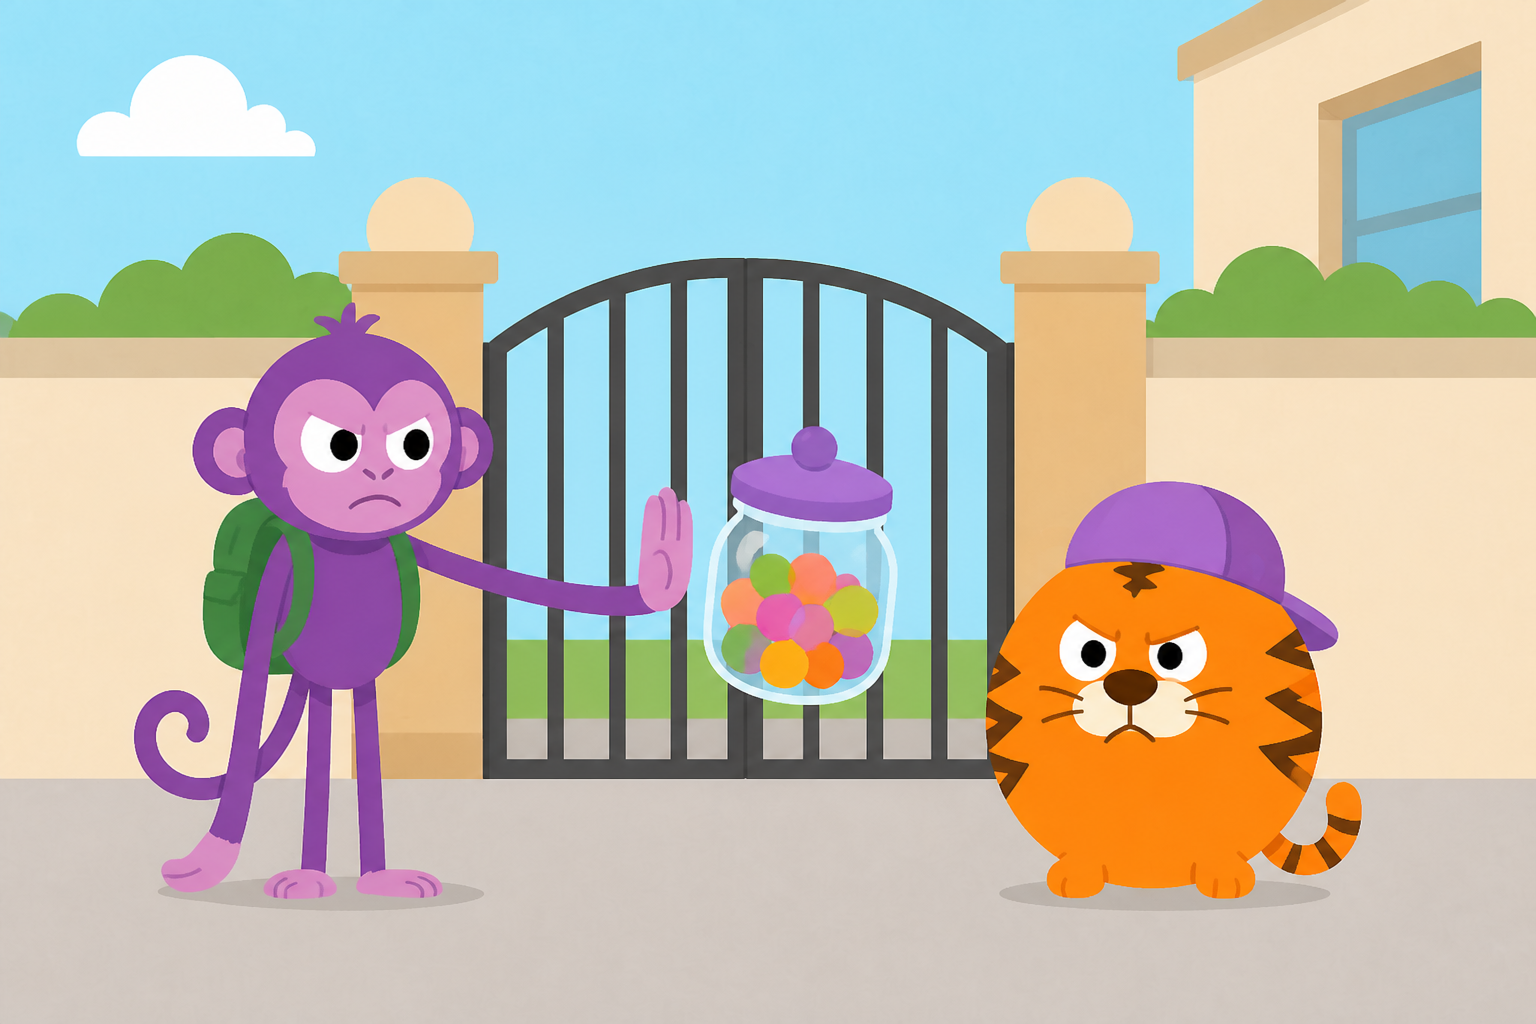
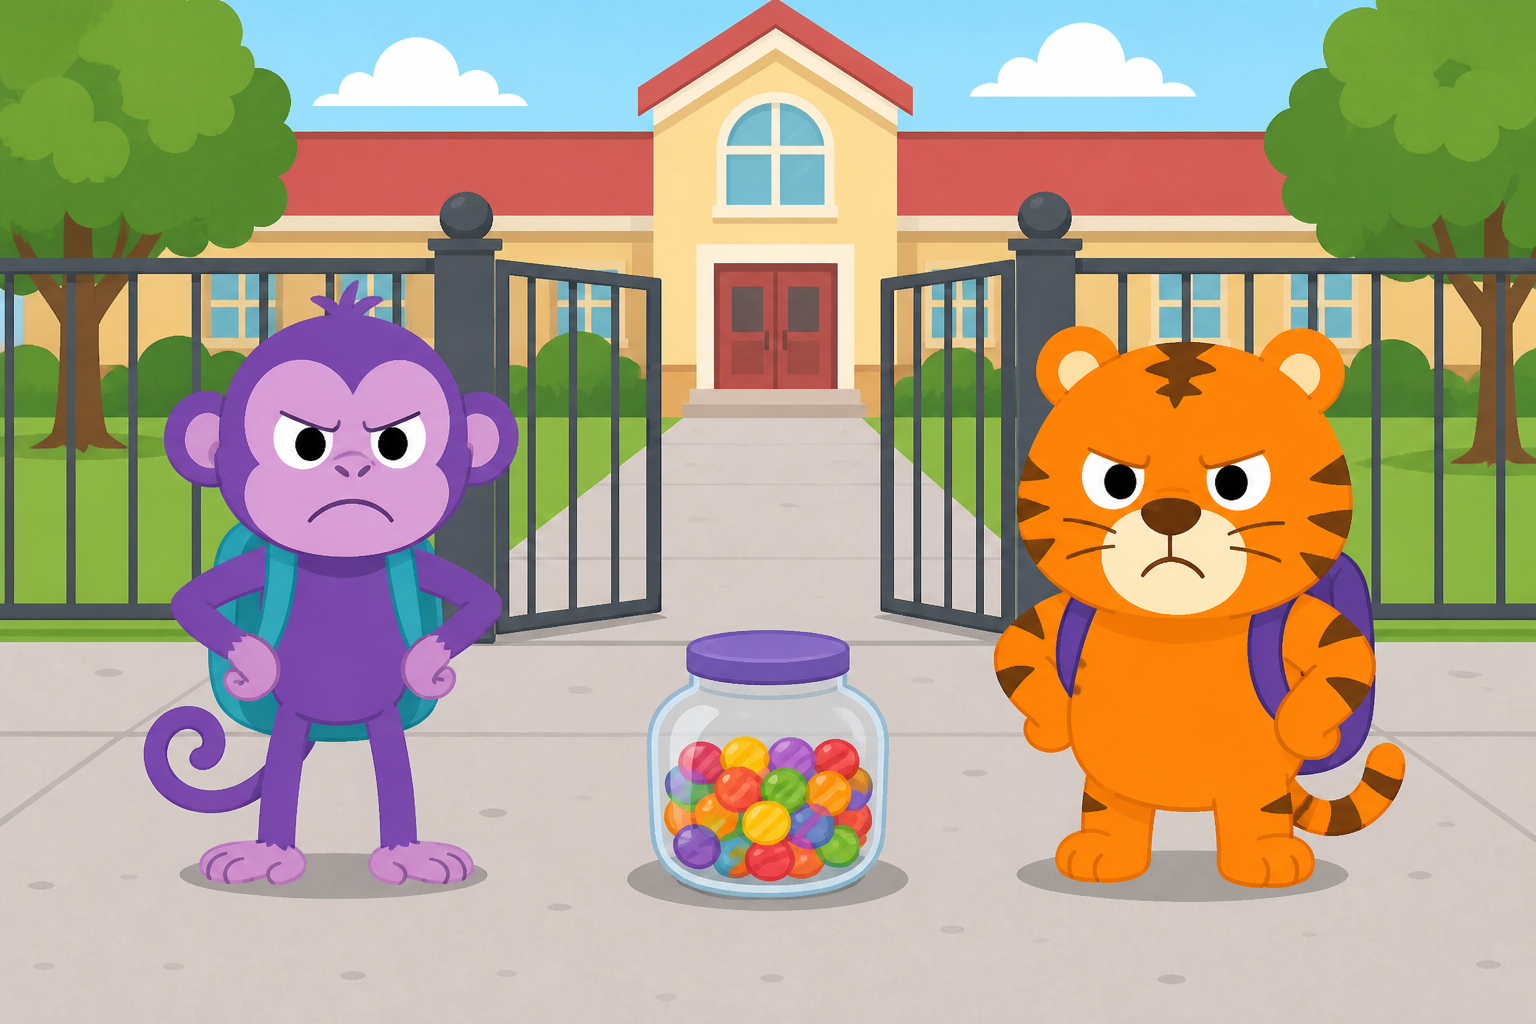
Fix jungle v4 no/think: correct limb count, grounded props
- Monkey exactly 2 arms (hands-on-hips pose for no)
- Candy jar on sidewalk with shadow, not floating
- Think: one arm on chin, one hanging, props on desk
- Add JUNGLE_CAST_ANATOMY_RULES to prompt module

diff --git a/src/data/jungle-cast-samples.ts b/src/data/jungle-cast-samples.ts
@@ -13,8 +13,11 @@ export const JUNGLE_CAST_SHAPE_LOCK =
   "(3) CROCODILE: lime green #84CC16; body ALWAYS one horizontal rectangle log (width 3x height); jagged dorsal scales; four stubby short legs (never long legs); one blunt white tooth.\n" +
   "(4) TIGER: orange ball #F97316; body ALWAYS one sphere (head+body merged chibi ball); bold dark zigzag stripes; cream muzzle patch; legs ALWAYS tiny stubs (never long legs); small striped tail.";
 
+export const JUNGLE_CAST_ANATOMY_RULES =
+  "ANATOMY & PROPS: Monkey has EXACTLY two arms and two legs (four limbs total) — never three arms, never extra limbs. Elephant: four stick legs + trunk (trunk is NOT a third arm). Tiger: two stub arms two stub legs. Crocodile: four stub legs. ALL objects must be physically grounded or held — candy jars, puzzles, props resting on table/floor OR held by a visible hand/arm. NO floating objects in mid-air.";
+
 export const JUNGLE_CAST_DESIGN_ONLY =
-  `Flat 2D humorous cartoon illustration, wide 16:9 landscape. NOT realistic. ${JUNGLE_CAST_SHAPE_LOCK} CAST SIZE: use 1–4 characters as scene needs — not all four every time. SETTING: everyday modern life (home, school, park, office, cafe, street) — NOT jungle. NO text, NO letters, NO watermark.`;
+  `Flat 2D humorous cartoon illustration, wide 16:9 landscape. NOT realistic. ${JUNGLE_CAST_SHAPE_LOCK} ${JUNGLE_CAST_ANATOMY_RULES} CAST SIZE: use 1–4 characters as scene needs — not all four every time. SETTING: everyday modern life (home, school, park, office, cafe, street) — NOT jungle. NO text, NO letters, NO watermark.`;
 
 export type JungleCastSampleEntry = {
   label: string;
@@ -50,19 +53,19 @@ export const JUNGLE_CAST_EXPRESSION_SAMPLES: Readonly<
     label: "Từ chối — kiên quyết",
     cast: ["monkey", "tiger"],
     scene:
-      "ONLY monkey and tiger — school gate sidewalk, refuse giant candy jar from off-screen hand.",
+      "ONLY monkey and tiger on school sidewalk. Large candy jar sits ON the pavement between them (grounded, not floating, no disembodied hand). Both step back refusing.",
     expressions:
-      "Monkey: stern stop gesture. Tiger: serious head-shake — tiger stays round ball shape.",
+      "Monkey: stern refusal — both hands on hips (two arms only, front view). Tiger: both hands on hips, angry frown.",
     outfits: "Monkey: school backpack. Tiger: student cap.",
   },
   think: {
     label: "Suy nghĩ — tò mò",
     cast: ["monkey"],
     scene:
-      "ONLY monkey — bright classroom desk with puzzle and blocks, hand on chin, curved hook shapes floating.",
+      "ONLY monkey in bright classroom. Monkey sits on chair behind desk — puzzle flat on desk surface, blocks on desk. One hand touches chin, OTHER arm hangs down long to floor. Curved hook shapes near head. All props on desk, nothing floating.",
     expressions:
-      "Monkey: curious thinking, one eyebrow up — arms still long reaching near floor.",
-    outfits: "Monkey: reading glasses pushed on forehead.",
+      "Monkey: curious thinking, one eyebrow up. Exactly two arms: one on chin, one hanging down.",
+    outfits: "Monkey: reading glasses on forehead.",
   },
   love: {
     label: "Yêu thương — ấm áp",
